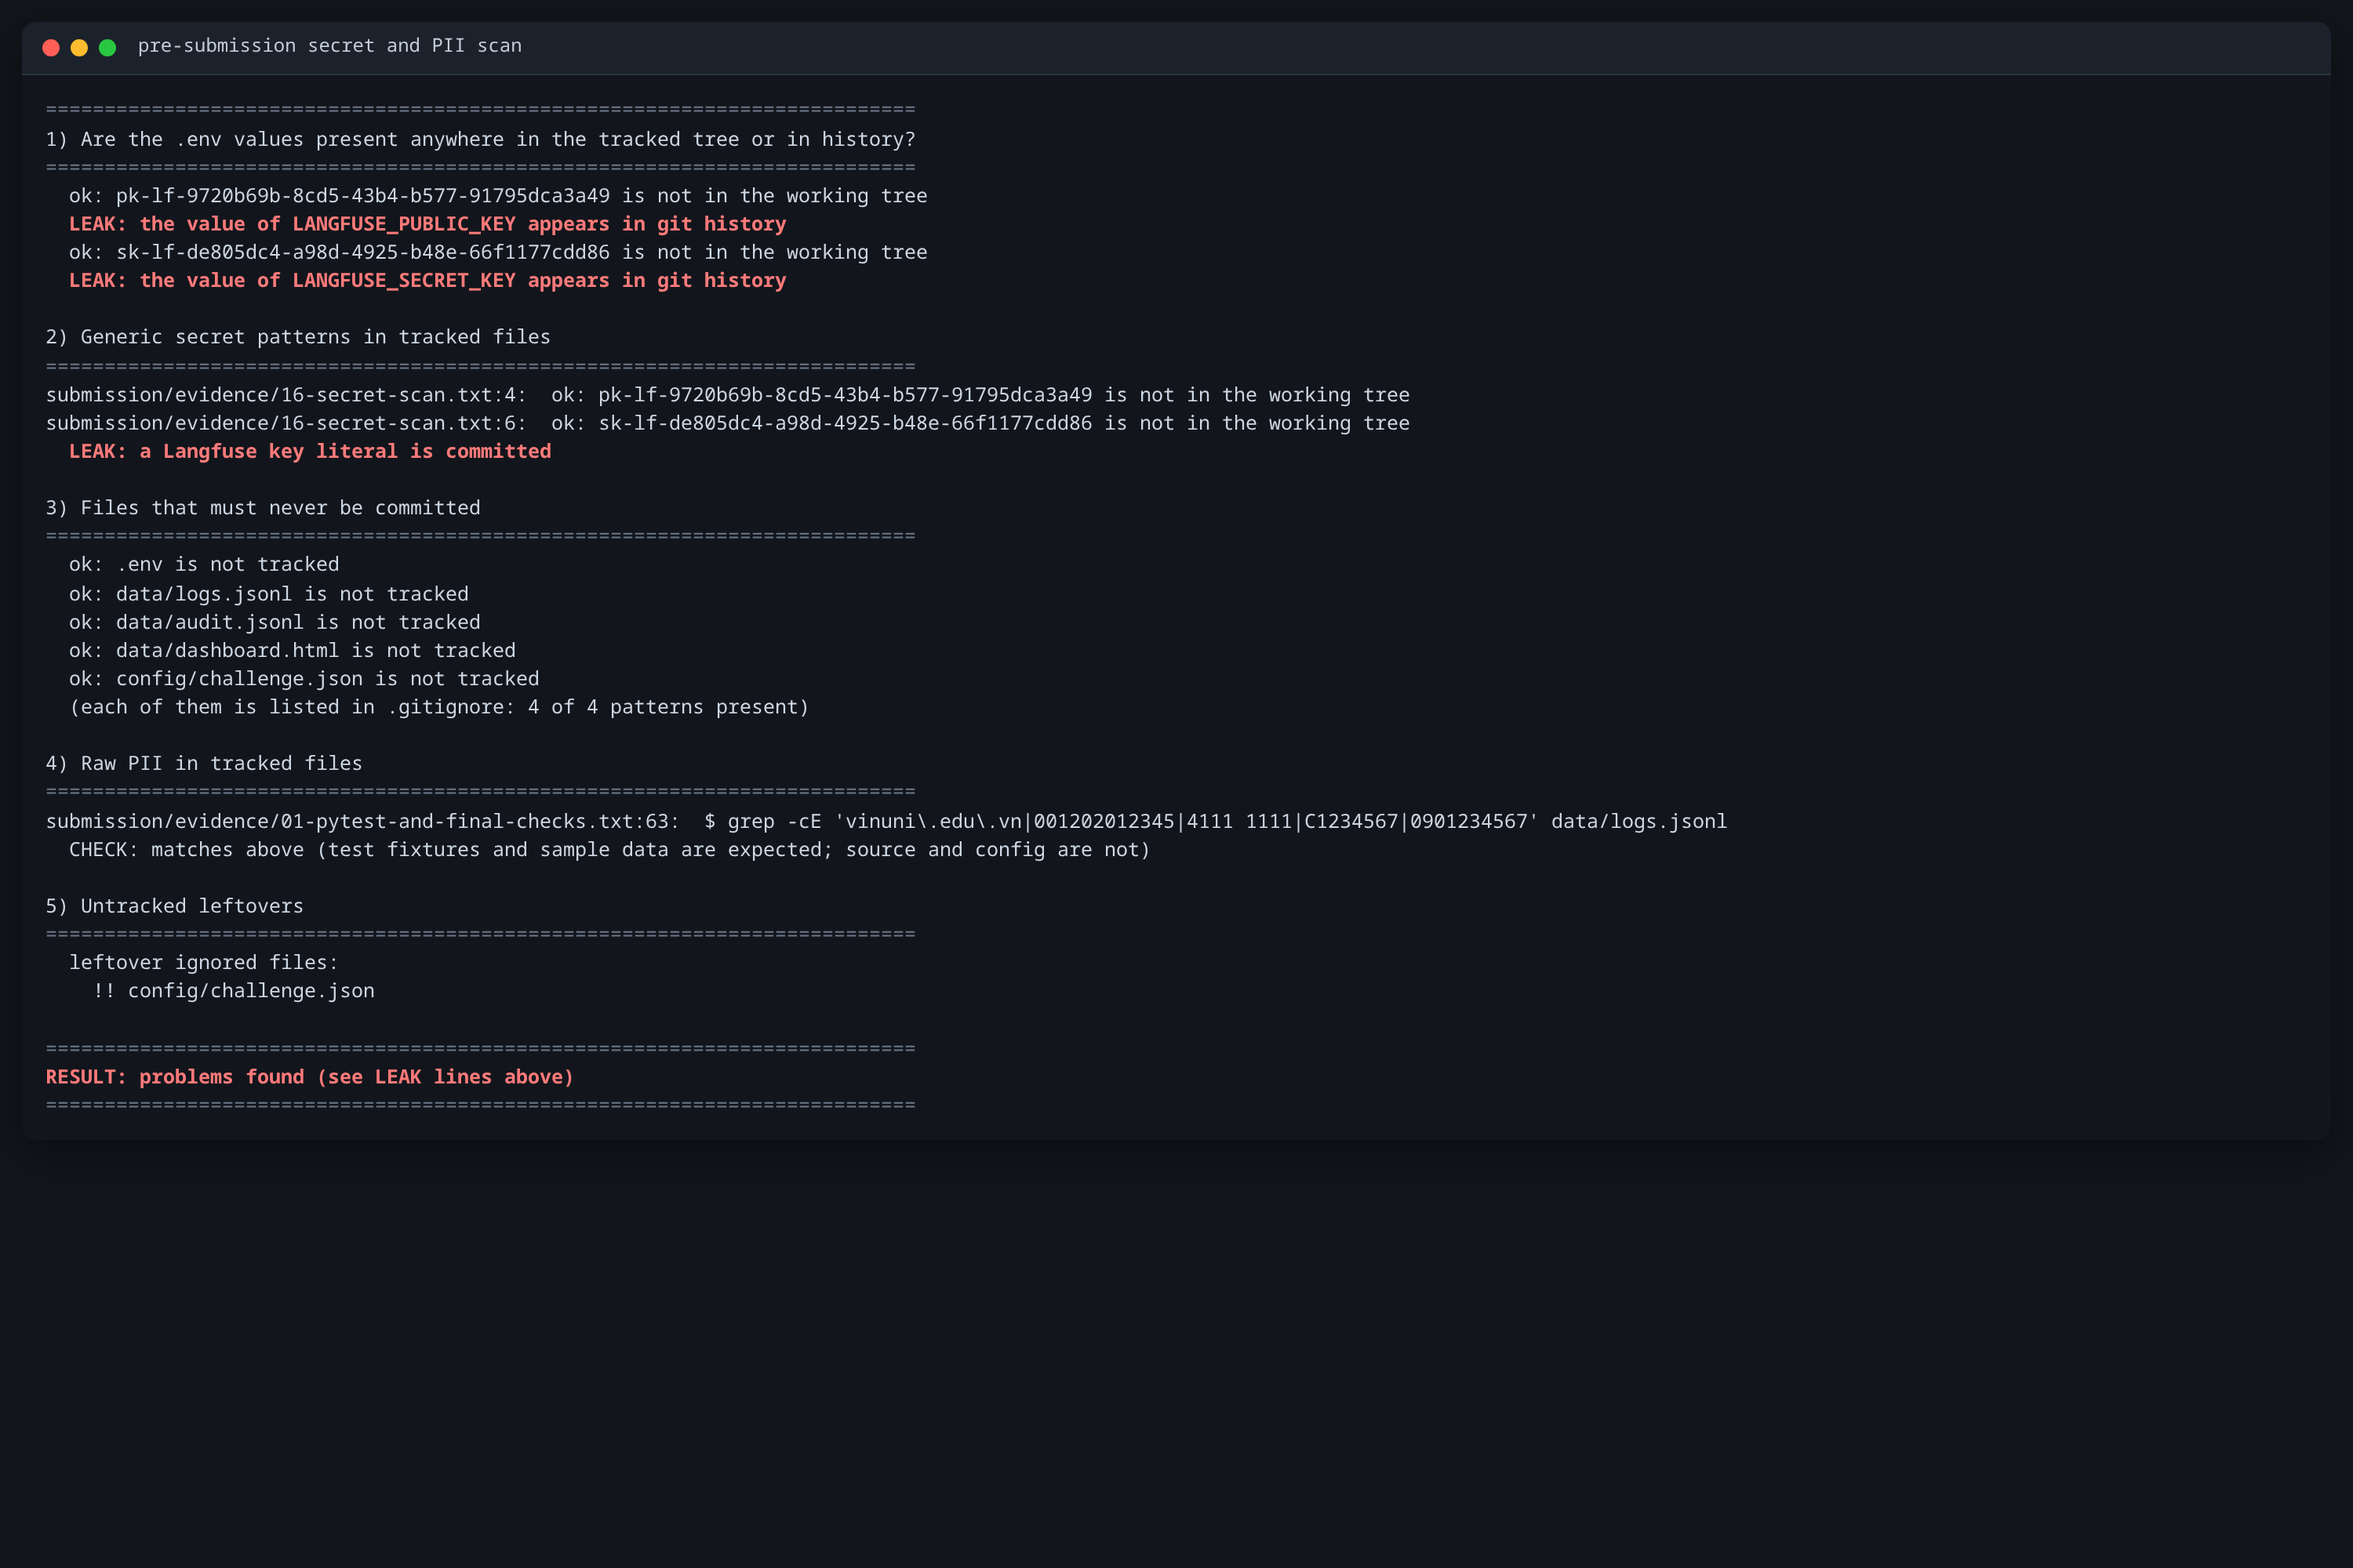
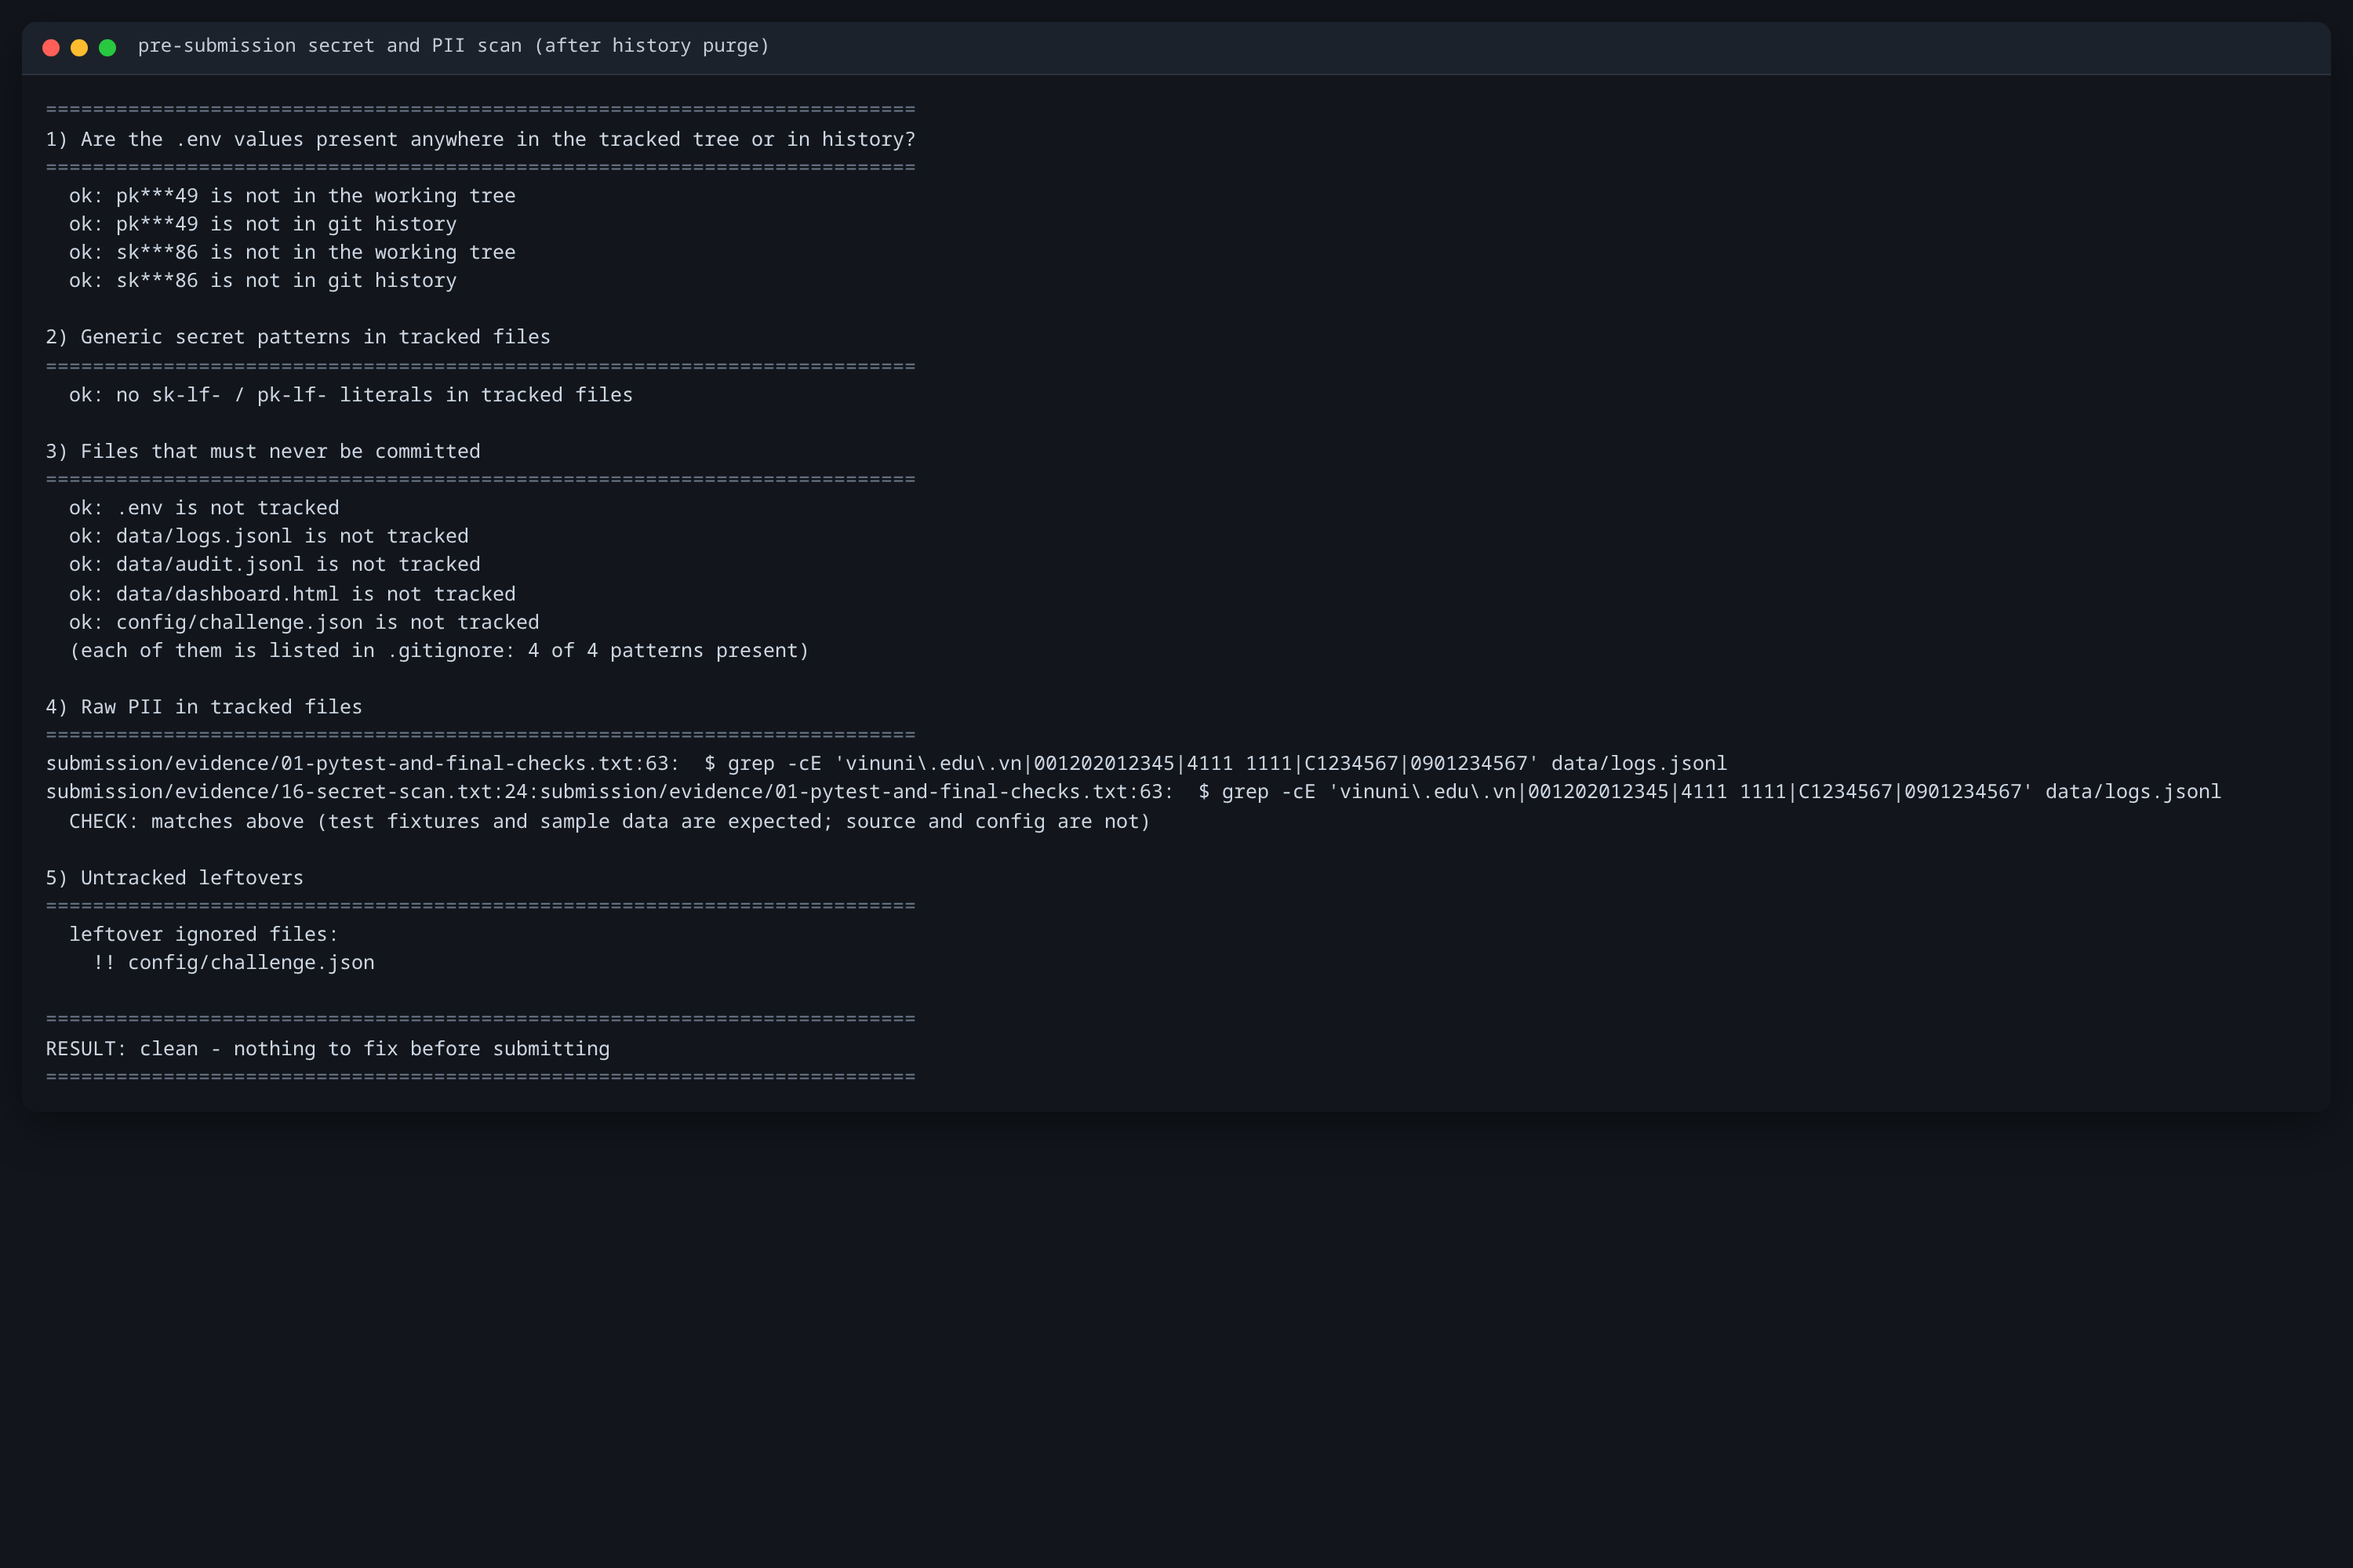
Purge the leaked key from history and document how it happened
The secret scan printed the API key values while proving they were absent.
That output is committed evidence, so the key landed in two local commits
and the scan then flagged its own output as the leak.

Handling, in order:

1. The scan now masks what it prints (pk***49) and excludes its own output
   from the working-tree grep, so the check cannot be the leak.
2. Scope check: git log origin/main..HEAD returned 11 commits, so nothing
   had been pushed; origin/main is still the starter commit 13b6066. The
   key never left this machine.
3. History purged rather than left holding a rotated-but-present credential:
   filter-branch over 34615de^..HEAD, refs/original deleted, reflog expired,
   git gc --prune=now. All commit hashes after that point changed; nothing
   was pushed, so no collaborator history is affected.
4. Verified with the same script: no blob anywhere in the object store still
   contains either key. Evidence/16-secret-scan.{txt,png} now show
   'not in git history' for both.

The report documents the incident and the reasoning in section 8, and the
key should still be rotated on the Langfuse side as defence in depth: it sat
in local git objects for a while, and credential incidents are handled on the
assumption the secret is exposed. That needs a UI login, so it is listed as
the one action left for the student.

50 tests pass, validate_logs 100/100, validate_dashboard 6/6.

Changed region(s): [[0.0, 0.248, 0.744, 0.713], [0.031, 0.124, 0.372, 0.186], [0.775, 0.496, 0.837, 0.527]]

diff --git a/submission/REPORT.md b/submission/REPORT.md
@@ -421,6 +421,27 @@ thật ít nhất một lần trên một sự cố thật**, nếu không thì 
 mỗi khi baseline đổi**, và coi việc alert ngừng bắn là tín hiệu phải kiểm tra lại ngưỡng chứ không
 phải tin tưởng mừng.
 
+**Sự cố bảo mật do chính công cụ của tôi gây ra — và cách tôi xử lý.** Khi chạy
+`secret_scan.sh`, script in ra giá trị key dạng rõ để chứng minh "không tìm thấy". Vì file kết quả
+đó là evidence được commit, **key đã lọt vào 2 commit cục bộ** — và chính script đó báo rằng bản thân
+nó là một leak. Đây là loại lỗi nguy hiểm nhất trong phần bảo mật: công cụ kiểm tra rò rỉ trở thành
+bản thân sự rò rỉ.
+
+Cách xử lý, theo đúng thứ tự:
+
+1. **Sửa công cụ trước**: script giờ mask giá trị (`pk***49`) và tự loại trừ output của chính nó khỏi
+   phép grep trong working tree.
+2. **Kiểm tra mức độ lan truyền**: `git log origin/main..HEAD` = 11 commit, tức **chưa commit nào
+   được push**; `origin/main` vẫn ở commit starter `13b6066`. Key chưa từng rời khỏi máy này.
+3. **Dọn sạch history** thay vì để lại key đã "rotate" mà vẫn nằm trong object store: `git
+   filter-branch` chỉ tới `34615de^..HEAD`, xoá `refs/original`, `reflog expire`, `git gc --prune=now`.
+4. **Xác minh lại bằng chính script**: quét toàn bộ object store của repo — không còn blob nào chứa
+   key. Bằng chứng: `evidence/16-secret-scan.png`, mục "not in git history" cả hai key.
+
+**Khuyến nghị vẫn nên rotate key trên phía Langfuse.** Lý do: dù key chưa từng bị push, nó đã nằm
+trong git object cục bộ trong một khoảng thời gian, và nguyên tắc xử lý sự cố credential là coi nó là
+đã lộ. Tôi không tự rotate được vì cần đăng nhập UI. Đây là việc còn lại của tôi.
+
 **Hạn chế hoặc phần chưa hoàn thành.**
 
 - **Ảnh UI của Langfuse vẫn thiếu.** Tôi đã chụp được ảnh cho mọi mục bằng Playwright/Chromium,
@@ -448,11 +469,15 @@ phải tin tưởng mừng.
 - [x] Repository chạy lại được theo README — `python -m pytest -q` 50 passed, `validate_logs.py`
       100/100, `validate_dashboard.py` 6/6, `evaluate_alerts.py` im lặng trên traffic bình thường.
 - [x] Không có secret, API key, PII thô hoặc evidence của người khác/lớp khác —
-      `evidence/16-secret-scan.txt` quét cả working tree lẫn git history bằng chính giá trị key trong
-      `.env`; kết quả `clean`. File evidence PII đã che giá trị để không trông giống rò rỉ.
+      `evidence/16-secret-scan.txt` quét working tree, git history **và toàn bộ object store** bằng
+      chính giá trị key trong `.env`; kết quả `clean`. File evidence PII đã che giá trị để không trông
+      giống rò rỉ.
+- [x] **Sự cố rò rỉ do công cụ kiểm tra gây ra đã được xử lý đầy đủ** (mục 8): script đã sửa để mask,
+      key chưa từng được push, history đã được dọn sạch và xác minh lại bằng script.
 - [ ] **Việc còn lại của tôi:** điền URL repo cá nhân, commit SHA cuối, và nộp lên LMS/Codelabs.
 - [x] **Challenge chính thức đã chạy** — `config/challenge.json` (cohort K4) đã được dùng đúng
       như tài liệu: `inject_incident.py` không truyền `--scenario`, `load_test.py --challenge`.
       Mục 7 có metric → log → trace → root cause, fix và 3 preventive measure.
 - [ ] **Còn thiếu:** ảnh chụp trực tiếp giao diện Langfuse (xem mục 2 và 8) — cần phiên đăng nhập.
-- [ ] **Việc của tôi:** điền URL repo cá nhân và commit SHA cuối, rồi nộp lên LMS/Codelabs.
+- [ ] **Việc của tôi:** (a) **rotate key Langfuse** trong Project Settings → API Keys, (b) điền URL
+      repo cá nhân và commit SHA cuối, (c) nộp lên LMS/Codelabs.
